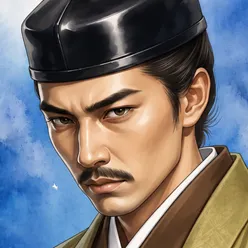
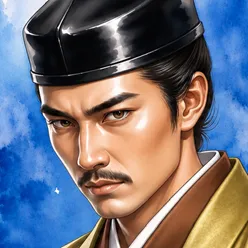
v1011

diff --git a/js/config.js b/js/config.js
@@ -10,7 +10,7 @@
  */
 window.GameConfig = {
     Meta: {
-        Version: 'r1010'
+        Version: 'r1011'
     },
 
     Ending: {

diff --git a/docs/audits/r1011_顔グラ5名差替監査記録_2026-11-28.md b/docs/audits/r1011_顔グラ5名差替監査記録_2026-11-28.md
@@ -1,0 +1,17 @@
+# 戦国覇道 r1011 顔グラ5名差替監査記録
+
+2026-11-28。正本候補はライブラリのr1010 UTF-8完全版（SHA-256: 0ae88065198e3b680b311b23373cc053a2d53513993042fc98a82ca6733334f9）。ユーザー提供 facewebp.zip の9画像を同名の既存ファイルへバイト単位で置換。画像生成・加工・再圧縮（画像形式として）は行わない。織田信長、柴田勝家、毛利元就、小早川隆景は通常顔と変更後顔、山本晴幸は既存 yamamoto_kansuke.webp を維持する。共通BINの顔参照・切替年は変更しない。
+
+| ファイル | 寸法 | バイト数 | 添付原本SHA-256 |
+|---|---|---:|---|
[9 lines of base64/hex data omitted]
+
+変更：顔画像9件、js/config.js の版番号のみ、docs/audits/README.md。追加：本記録。削除なし。管理Excel、BIN、ゲーム処理、AI、顔切替条件、酒井忠次画像は保持。ZIPの日本語パスはUTF-8フラグを付与し、元のエントリ名を保持する。全収録内容比較・CRC・画像原本照合・マニュアル整合・関連回帰の実行結果は外部監査記録末尾を参照。実ブラウザ実描画・実配信は未実施。ライブラリ一覧の後続ページは未確認。

diff --git a/docs/audits/README.md b/docs/audits/README.md
@@ -1,3 +1,4 @@
+- [r1011 顔グラ5名差替](./r1011_顔グラ5名差替監査記録_2026-11-28.md)
 - [r1010 酒井忠次顔グラ追加・ZIP文字化け修正](./r1010_酒井忠次顔グラ反映監査記録_2026-11-28.md)
 - [r1009 軍団席確定の正本統一](./r1009_軍団席確定の正本統一監査記録_2026-11-28.md)
 - [r1008 作者修正反映と軍団席確定のコード設計監査](./r1008_作者修正反映と軍団席確定のコード設計監査記録_2026-11-28.md)
